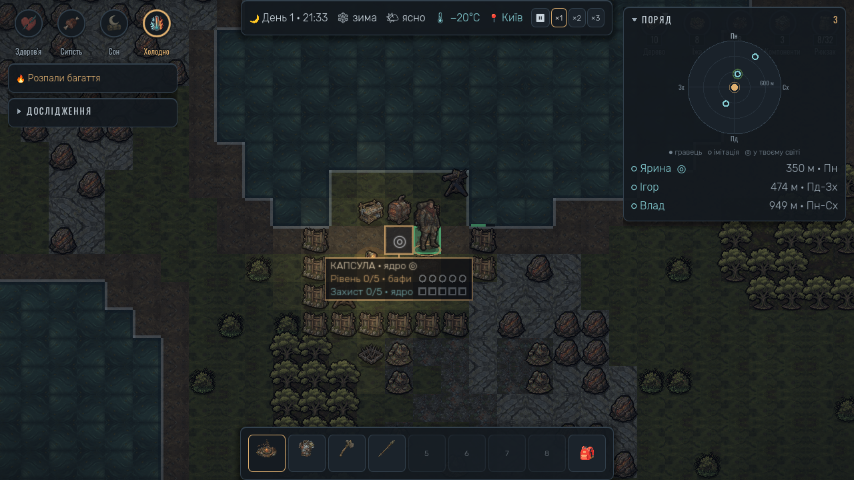
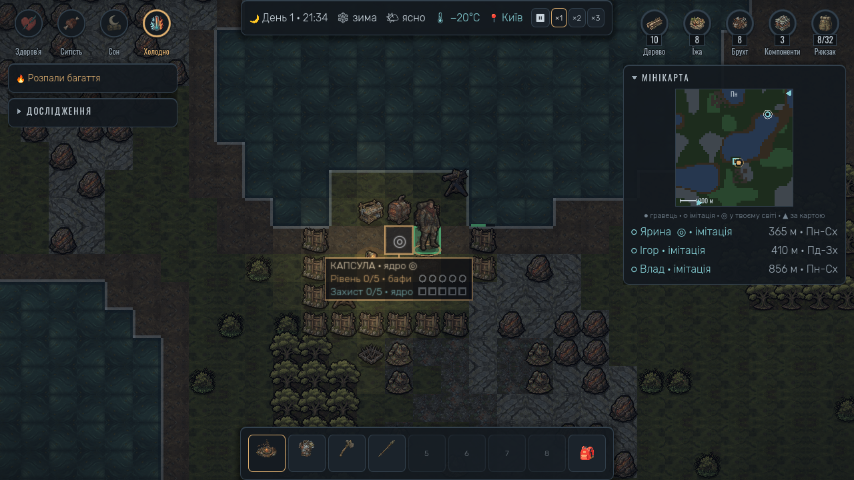
Мінімапа замість радара: місцевість регіону + герой + капсула + сусіди (●/○/▲) + лінійка; фікс першого відкриття правих панелей; OD-123
- MinimapWidget: один тексель на тайл, позиція = тайл героя + (азимут, відстань)/(м на тайл)
- Session.nearby_view несе терен (base64, кеш за seed) і тайл героя/капсули
- PanelRegistry.toggle: лише fade (підйом position.y ламав першу появу панелі під смугою ресурсів)
- spec 0013 / docs оновлено; OD-123 (постійна мінімапа vs HUD-дієта 6) — open

Claude-Session: https://claude.ai/code/session_01Xo1GdSZDjjMxzwCba7L6pe

Changed region(s): [[0.7307, 0.0, 1.0, 0.5938]]

diff --git a/docs/agents/godot-sim.md b/docs/agents/godot-sim.md
@@ -28,4 +28,4 @@
 - **Основна капсула, хвиля W3a — рейд-ядро (REQ-0010-17/21…26/34/35/62/65…67/69/81/82/84/102/104/113/119):** `sim/capsule.gd`: ЧИСТА `resolve_raid(cap, inp, tbl)` (входи: `now_ms`, `core_hp`, `power`, `structures`, `autodefense`, `roll`; без `core_hp` — повний максимум рядка осі ЗАХИСТУ, ×2 на рівень; формула шкоди й `roll_spread` — у даних `proposed`) і наслідок: рівень −1, `take_percent` (50%) від `invested[L]` знищується (правило округлення — `raid.take_round`), `immune_until = now + immunity_ms` (UTC-мс int64), жетон 0→1 лише при падінні до 0 (≤ 1), `reinforcement_used = 0`; `protection`/`protection_invested` не чіпає (стаб до Q-5); `core_breached(core_hp)` (= `raid_succeeded`) — єдиний предикат успіху. **Автомат** (runtime `sim.capsule_raid`, у `serialize_runtime` → world_hash/resume лише при ON): `none → planned → warning → contact → none`, один перехід за тік, один активний + черга `raid.queue_max`; час — лише UTC-мс (`now_ms` з `set_clock`), попередження ≥ `warn_min_ms` до контакту навіть при стрибку годинника. Рейдери спавняться через `Threats.edge_cell(s, edge, s.capsule_rng)` (окремий потік `region_seed ^ STREAM_SALT`; курсор — `main_capsule.raid_rng_cursor`, у регіональному записі/хеші); удар по неруйнівній капсулі (`Threats.damage_building`) → `MainCapsule.on_hit` знижує `capsule_raid.core_hp` лише в контакті; `MainCapsule.update` стоїть у `sim.update` ПІСЛЯ турелей (команди гравця цього тіка — до розв'язку, REQ-0010-84). Режисер при ON: `Director.apply(raid)` → `on_director_raid` → ворота `gate` (перша прокачка `first_upgrade_at>0`, грейс 259 200 000 мс від `grace_start`, не імунітет, один активний); склад рейду = `raid.by_level[рівень]` × max(1, `Balance.assess.threat` / `wealth_ref_points`). Смерть героя рейд не скасовує (`respawn` не чіпає `enemies`/автомат); «Продовжити» (`Session.restore_game` → `mark_reentry`) і `on_catch_up(s, now)` переплановують `planned/warning` (контакт лишається замороженим) — стаб до Q-1. Патрулі при ON досі придушені (інтерим, питання власнику). Числа: `capsule_levels.raid` (`decided` — OD-24/66/88/107 дослівно; `proposed` — бот `run_capsule_balance.gd` §7).
 - **Основна капсула, хвиля W3b — каденс і ворота режисера, попередження, стаби 0011, хук catch-up (REQ-0010-18/19/20/27/68/70/71/86/93/94/108…112/114/115/120):** при ON каденс NPC/машинних рейдів веде **рейд-потік капсули в UTC-мс**, а не MTB-кидок Balance у sim-днях: `Director.update` досі тягне кидки `director_rng` (курсор не зсувається), але payload `raid` при ON не виконує; натомість `MainCapsule.cadence_tick(s)` (усі ворота `gate` == `&""`: перша прокачка, грейс 259 200 000 мс від `grace_start`, не імунітет, нема активного рейду + `now_ms >= due_at(s)`) → `plan_scheduled(s, payload, points)` (points = `Balance.assess` від багатства бази, `Director._capsule_points`; склад — `composition`, ×2 на рівень з даних). `due_at` = `main_capsule.next_raid_at` або «ворота відкрито (пізніше з кінця грейсу й першої прокачки) + інтервал»; інтервал — рівномірно з `raid.cadence_min_ms…cadence_max_ms` (OD-86: 259 200 000…345 600 000 мс, `decided`; рівномірна форма — пропозиція), ЛІЧИЛЬНИКОВА похідна рейд-потоку (`seed = (region_seed ^ STREAM_SALT) + (k+1)·CADENCE_STRIDE`, k = номер рейду), тож планувальник не рухає `raid_rng_cursor` і не пише в запис, доки рейд не заплановано; після плану `next_raid_at = now + інтервал`. Не залежить від debug-швидкості, `use_realtime`, `day_len` (Q-2 варіант A, стаб). Рейд, що «настав» поза грою, у catch-up не створюється; перший тік після входу (`defer_due`, транзитний) відкладає його на повний інтервал (OD-53, стаб до Q-1). Подія попередження має `kind:&"warning"` + `event:&"raid_warning"` (`raid_id/warn_at/contact_at/dir/composition`); `MainCapsule.drain_events(s)` — вихід для пуш-споживача поза sim (REQ-0010-109; доставка — клієнт). `MainCapsule.actions(s, safe_stock)` — модель дій панелі за станами (REQ-0010-86; «Підкріплення» не пропонується на стабі). **Шви 0011 лише в `sim/orbit_stub.gd`:** `send_to_safe_zone(s, safe_stock)` (єдиний шлях внесення; частковий `deposit` duck-typed контейнера, решта лишається на складі; null → `&"no_orbit"`), `call_reinforcement` → `{ok:false, reason:&"no_orbit"}`, `safe_stock_of(session)` (null до 0011; контейнер — `Session.orbit.safe_stock`). `MainCapsule.force_raid(s, debug_build)` — dev-хук G5 (REQ-0010-120): прапор дає край пристрою (`newhud_main`: `OS.has_feature("debug")`, перемикач `-- capsule forceraid`), sim збірки не питає; контакт = now + `warn_min_ms`. Числа `capsule_levels.raid`: `cadence_min_ms/cadence_max_ms` — `decided`. Бот: `run_capsule_balance.gd` §8 (`-- w3b`).
 - **Годинник (spec 0012 REQ-10/11, D1):** sim НІКОЛИ не читає час — жодного `Time.*`/`OS.get_*time*`/`Engine.get_ticks_*`/`Engine.time_scale`/`DateTime`/`rng.randomize()`, жодного `RandomNumberGenerator` без `seed`/`state`. Абсолютний час (`now_ms` = UTC-мілісекунди епохи, int64; у save — рядком, як курсори RNG) приходить лише аргументом: `Session` бере його з провайдера `godot/scripts/clock.gd` (`ClockBase` → `SystemClock` / `FixedClock` (тести) / `FakeClock` (dev); `Monotonic.observe` — відкат годинника не скорочує кулдаун, REQ-68; `to_wire`/`from_wire`) і передає в `Sim.set_clock(now_ms)`. `clock.gd` — єдиний файл, де дозволено `Time.get_unix_time_from_system`. Корпус заборони = `godot/scripts/` мінус `clock.gd`, `ui/**`, `world_view.gd`, `map_widget.gd`, `main.gd`, `newhud_main.gd` (там `Time.get_ticks_msec` крутить пульс/трясіння камери — view, не sim-час); НОВИЙ скрипт покритий за замовчуванням. Два примусові боки одного списку: `npm run lint` (`tools/process/lib.mjs`: `SIM_CORPUS_EXCLUDE`/`SIM_CLOCK_BAN`) і `run_tests.gd::_t_no_wallclock_in_sim` (`SIM_CORPUS_EXCLUDE`/`SIM_CLOCK_PATTERNS`); `tests/process.test.js` звіряє їх. Хибнопозитив — коментар `# clock-ok` (виклик годинника/RNG) або `# rng-ok` (RNG, засіяний там, де лінт не бачить). Споживач у `Session` (`pump_clock`/`now_ms`) і `Sim.set_clock` — наступні хвилі spec 0012; `clock.gd` сам нікого не підключає і `world_hash` не міняє.
-- **RealGPS-шар присутності (spec 0013, 2026-11-09):** `godot/scripts/net/` — `geo.gd` (відстань/азимут), `geo_grid.gd` (сітка ~760 м, ряди за широтою, колонки ∝ cos φ, загортання на антимеридіані; `region_of(cell)` → seed спільного світу), `gps_guard.gd` (правдоподібність фіксів: `dist ≤ jitter + max_speed·dt`), `shard_router.gd` (rendezvous-хеш клітинка→шард), `realm.gd` (реєстр присутності + interest за ТОЧНОЮ відстанню; усе відсортоване за id), `realm_protocol.gd` (hello/fix/ping/bye ↔ welcome/presence/refuse; клієнт НЕ шле часу), `transport.gd` (інтерфейс `ServerTransport` + `Loopback` + `WebSocketServer`), `realm_server.gd` (тік: валідація → Realm → відмови з причиною → expire → дельти `Snapshot`), `realm_client.gd` (редʼюсер для UI), `local_realm.gd` (соло: герой — справжній клієнт крізь Loopback; сусіди `kind:"sim"` — чиста функція канонічної координати). `Session.tick_realm(now_ms)` (лазі, тротлінг 1 с, поза sim/сейвом/`world_hash`) + `nearby_view()` → зріз `nearby` → `ui/realm_panels.gd` (`RadarWidget` + `NearbyPanel`, клавіша **Q**). Тести: `run_realm_tests`, `run_realm_server_tests` (вкл. реальний WebSocket на 127.0.0.1:18931). ГОЧІ: `P` — зарезервована клавіша оверлеїв (`_t_hotkey_contract`); `Vector2(50.45, 30.52)` у тестах — float32, порівнюй із допуском; шар не читає годинник — `now_ms` завжди аргумент.
+- **RealGPS-шар присутності (spec 0013, 2026-11-09):** `godot/scripts/net/` — `geo.gd` (відстань/азимут), `geo_grid.gd` (сітка ~760 м, ряди за широтою, колонки ∝ cos φ, загортання на антимеридіані; `region_of(cell)` → seed спільного світу), `gps_guard.gd` (правдоподібність фіксів: `dist ≤ jitter + max_speed·dt`), `shard_router.gd` (rendezvous-хеш клітинка→шард), `realm.gd` (реєстр присутності + interest за ТОЧНОЮ відстанню; усе відсортоване за id), `realm_protocol.gd` (hello/fix/ping/bye ↔ welcome/presence/refuse; клієнт НЕ шле часу), `transport.gd` (інтерфейс `ServerTransport` + `Loopback` + `WebSocketServer`), `realm_server.gd` (тік: валідація → Realm → відмови з причиною → expire → дельти `Snapshot`), `realm_client.gd` (редʼюсер для UI), `local_realm.gd` (соло: герой — справжній клієнт крізь Loopback; сусіди `kind:"sim"` — чиста функція канонічної координати). `Session.tick_realm(now_ms)` (лазі, тротлінг 1 с, поза sim/сейвом/`world_hash`) + `nearby_view()` → зріз `nearby` → `ui/realm_panels.gd` (`MinimapWidget` — місцевість регіону + герой + капсула + сусіди ●/○/▲ + лінійка 100 м; `NearbyPanel` — мінімапа + список, клавіша **Q**, за замовчуванням закрита — HUD-дієта: рівно 6 постійних елементів, OD-123). Тести: `run_realm_tests`, `run_realm_server_tests` (вкл. реальний WebSocket на 127.0.0.1:18931). `PanelRegistry.toggle` тепер лише FADE (старий +10 px підйом ламав першу появу панелі: position.y прихованої дитини контейнера застарілий). ГОЧІ: `P` — зарезервована клавіша оверлеїв (`_t_hotkey_contract`); `Vector2(50.45, 30.52)` у тестах — float32, порівнюй із допуском; шар не читає годинник — `now_ms` завжди аргумент.

diff --git a/specs/0013-realgps-presence-layer.md b/specs/0013-realgps-presence-layer.md
@@ -4,11 +4,11 @@
 > Реалізує **шви** кроку 2 (мультиплеєр) без вмикання самого мультиплеєра: соло-гра ходить тим самим кодом, що й хостований реалм (OD-37: крок 1 = соло, крок 2 = мультиплеєр). Нове рішення про геймплей не вводить; усі числа — `proposed`.
 
 ## 1. Інтент
-Гравець бачить, хто стоїть поруч у реальному світі: радар «Поряд» показує виживальників навколо за напрямом і відстанню, а ті, що в тій самій ділянці ~760 м, грають у тому самому світі. Поки сервера нема, сусідів чесно імітує гра (позначка «○ імітація»).
+Гравець бачить, хто стоїть поруч у реальному світі: мінімапа регіону (клавіша `Q`) показує місцевість, тебе, капсулу і виживальників навколо — за реальним напрямом і відстанню, переведеними в тайли, а ті, що в тій самій ділянці ~760 м, грають у тому самому світі. Поки сервера нема, сусідів чесно імітує гра (позначка «○ імітація»).
 
 ## 2. Анкета механіки
 1. Одне речення: «хто поруч у моєму реальному місці — і чи ми в одному світі».
-2. Навчання без тексту: радар = коло з точками; ● живий, ○ імітація, ◎ «у твоєму світі»; напрям — слово (Пн/Сх…).
+2. Навчання без тексту: мінімапа = карта регіону з маркерами; ● живий, ○ імітація (і слово «імітація» в списку), ◎ «у твоєму світі», ▲ на краю — той, хто за картою; масштабна лінійка 100 м.
 3. Ввід: клавіша `Q` (панель), пункт ☰-меню на дотик; нових жестів нема.
 4. Канал фідбеку: панель + тултіп; відмова GPS-фікса — одним рядком у панелі.
 5. Лічильник: 0 нових дієслів sim; 1 панель (on demand), 0 постійних елементів HUD.
@@ -36,12 +36,12 @@
 | REQ-0013-15 | Сервер і шар не читають годинник і RNG (`now_ms` — аргумент); у sim-корпусі `npm run lint` зелений. | `npm run lint`, `run_tests` tripwires | done |
 | REQ-0013-16 | Соло-гра йде крізь `LocalRealm` (клієнт → Loopback → RealmServer → Realm); сусіди — `kind: sim`, чиста функція канонічної координати місця (однакове місце = однакові сусіди), без ГВЧ і годинника. | `run_realm_server_tests` (local_realm) | done |
 | REQ-0013-17 | `Session.tick_realm` не змінює `world_hash`, нічого не пише в сейв; новий світ скидає шар; зміна регіону = явна релокація (leave + join), а не GPS-фікс. | `run_realm_server_tests` (session) | done |
-| REQ-0013-18 | HUD: зріз `nearby` у `HudModel.snapshot` (value data), `NearbyPanel` — build-once, фіксований пул 6 рядків, `{available:false}` ховає панель; ● / ○ / ◎ не лише кольором (R11). | `run_ui_tests` (_t_nearby), кадр `newhud shot nearby` | done |
-| REQ-0013-19 | `RadarWidget.dot_offset` — чиста геометрія: північ угору, схід праворуч, поза радіусом — на обід. | `run_ui_tests` | done |
+| REQ-0013-18 | HUD: зріз `nearby` у `HudModel.snapshot` (value data; ключа нема, поки шар неактивний — OFF-baseline), `NearbyPanel` — build-once, фіксований пул 6 рядків, `{available:false}` ховає панель; ● / ○ / ◎ / ▲ не лише кольором (R11). | `run_ui_tests` (_t_nearby), кадр `newhud shot nearby` | done |
+| REQ-0013-19 | `MinimapWidget`: місцевість — один тексель на тайл з спільної палітри; позиція гравця = твій тайл + (азимут, відстань)/(м на тайл); поза картою — притиснутий до краю маркер ▲; масштабна лінійка 100 м; без даних — лише рамка. | `run_ui_tests` (tile_pos, to_pixel, terrain_texture) | done |
 | REQ-0013-20 | Справжній GPS-провайдер пристрою (`LocationProvider`) і автентифікація — **не цієї спеки**; фікс героя = координата активного регіону. | — | frozen |
 
 ## 4. Кошторис уваги і що прибирає
-+1 панель on demand (`Q`), +1 рядок у довідці, +4 нових поняття для гравця (живий/імітація/ділянка/радіус) — всі на одному екрані панелі. HUD за замовчуванням не змінюється (панель закрита). Нічого не прибирається; баланс ≤ 0 за замовчуванням (немає нових постійних елементів).
++1 панель on demand (`Q`), +1 рядок у довідці, +4 нових поняття для гравця (живий/імітація/ділянка/за картою) — всі на одному екрані панелі. HUD за замовчуванням не змінюється (панель закрита): постійна мінімапа була б 7-м постійним елементом, а design-system (REQ-0010-90) фіксує рівно 6 — **питання власнику (OD-123, open)**. Нічого не прибирається; баланс ≤ 0 за замовчуванням (немає нових постійних елементів).
 
 ## 5. Дизайн
 - `net/geo.gd` — відстань/азимут/точка призначення (відстань делегує `WorldGen.haversine_km`: одна формула). `net/geo_grid.gd` — сітка. `net/gps_guard.gd` — правдоподібність фіксів. `net/shard_router.gd` — HRW-хеш (FNV-1a, та сама родина, що terrain seed).
@@ -51,7 +51,7 @@
 - Поки що спільний світ = клітинка: `region_of(cell).seed` — seed, який отримують усі в клітинці. Підключення цього seed до `Session.start` (щоб двоє справді грали в одному регіоні) — наступний крок разом зі spec 0006 Phase 1 (сервер-бінарник, auth).
 
 ## 6. Перевірка
-`run_realm_tests` (82), `run_realm_server_tests` (56, вкл. реальний WebSocket), `run_ui_tests` (+14 у `_t_nearby`); кадр: `godot --path godot res://newhud.tscn -- newhud shot nearby`. G3 (fresh-eyes) — перед мерджем.
+`run_realm_tests` (82), `run_realm_server_tests` (59, вкл. реальний WebSocket), `run_ui_tests` (+18 у `_t_nearby`); кадр: `godot --path godot res://newhud.tscn -- newhud shot nearby`. G3 (fresh-eyes) — перед мерджем.
 
 ## 7. Ризики й не-цілі
 - **Відкриті рішення власника (не вирішую сам):** політика проти GPS-спуфінгу і ліміт переселень (OD-17/22/31/45); числа `cell_m` (760 м), `aoi_m` (1200 м), `max_speed` (50 м/с), `jitter` (25 м) — `proposed`; чи видимі живі гравці без взаємної згоди (приватність точного положення — зараз видно лише напрям і відстань, не координати).

diff --git a/docs/design/decisions.md b/docs/design/decisions.md
@@ -125,4 +125,4 @@
 | OD-120 | «Величезні запаси» невідновлюваних vs скінченність як ресурсний синк (наслідок OD-117) | decided | 2026-11-08 | **Величезні, але скінченні + дефіцит через відстань/небезпеку** (слова власника: варіант A+C). Синк OD-21/OD-5 лишається; дефіцит дає ціна доступу (S3), а не нестача в ноді. | OD-117, OD-5, OD-21 |
 | OD-121 | Розбіжність відповідей власника по OD-49 між двома сесіями (2026-11-08) | decided | 2026-11-08 | У `main` (PR #34): відігрів **~1 год у теплі**, час доби **цивільний із DST** (сонячний лише візуал), FTUE-підказки винесено в OD-113. У сесії плейтесту власник відповів кнопками: відігрів **≈×0.5 від звичайного**, день/ніч і клімат **сонячний час з lat/lon без DST**, догін 24 год (збігається), FTUE-підказки «мінімум, контекстні, до 5, раз» (близько до рекомендації OD-113). Агент не обирає: треба одне рішення про відігрів і про джерело часу доби (сонячний чи цивільний). Рекомендація агента: сонячний час (S1, без розбіжностей на DST) і ×0.5 як стартові; якщо діє рішення з main — лишити його. **Вибір власника (2026-11-08):** Відігрів у теплі ≈×0.5 від звичайного; час доби/клімат — сонячний з lat/lon без DST (цивільний із DST з PR #34 скасовано). Агент виправляє specs 0010/0012 і Clock-споживачів. | OD-49, OD-113, playtests/2026-11-08-owner-solo.md |
 | OD-122 | Потреби героя під час офлайн-догону (OD-R25) | decided | 2026-11-08 | **B: як зазвичай** — потреби тікають повністю, герой може померти офлайн; гравця треба попередити (UX — окремо). Атак у догоні нема (OD-53). Розблоковує `offline_catch_up` (spec 0012 REQ-35). | OD-53, OD-55, OD-70, specs/0012 |
-
+| OD-123 | Мінімапа регіону — постійний елемент HUD чи за клавішею Q? | open | 2026-11-09 | Мінімапа (spec 0013) готова й зараз закрита за замовчуванням (`Q` / ☰-меню). Постійна мінімапа = 7-й постійний елемент HUD, а design-system (REQ-0010-90) фіксує рівно 6. Варіанти: (A, рекомендація агента) лишити за `Q` і відкривати при першому сусідові/на дотику; (B) зробити постійною на десктопі й оновити «Зараз їх 7»; (C) постійна, але компактна (88 px) у куті. | specs/0013, REQ-0010-90 |
